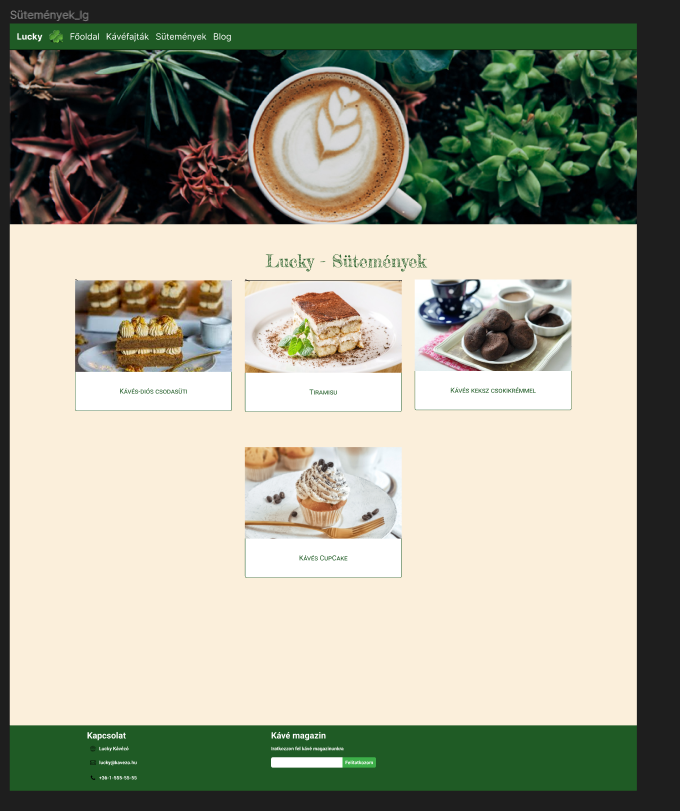
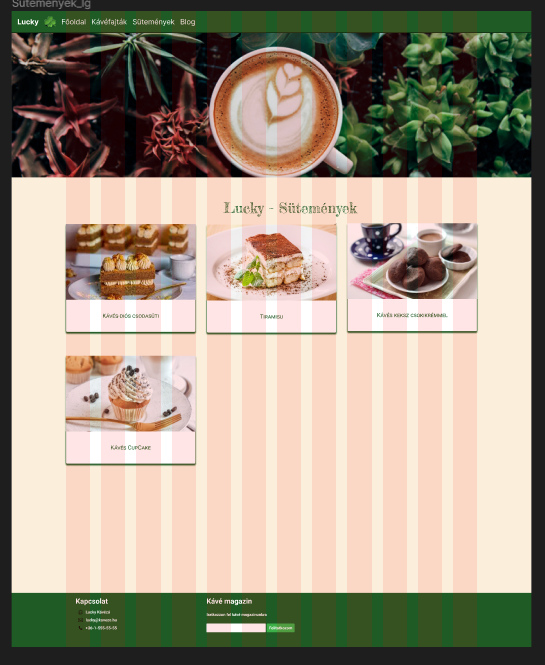
fad

diff --git a/lucky kávézó/html/sutik.html b/lucky kávézó/html/sutik.html
@@ -50,10 +50,28 @@
             </div>
         </div>
         <div class="row">
-            <div class="col-lg-4"><div class="kave"><img src="../Képek/sütik/KavesDiosCsodasuti.png" alt="Kávés-diós csodasüti" class="img-fluid"><h2>Kávés-diós csodasüti</h2></div></div>
-            <div class="col-lg-4"><div class="kave"><img src="../Képek/sütik/Tiramisu.jpg" alt="Tiramisu" class="img-fluid"><h2>Tiramisu</h2></div></div>
-            <div class="col-lg-4"><div class="kave"><img src="../Képek/sütik/KavesKekszCsokiKremmel.jpg" alt="Kávés keksz csokikrémmel" class="img-fluid"><h2>Kávés keksz csokikrémmel</h2></div></div>
-            <div class="col-lg-4"><div class="kave"><img src="../Képek/sütik/KavesCupCake.png" alt="Kávés cupcake" class="img-fluid"><h2>Kávés cupcake</h2></div></div>
+            <div class="col-lg-4 col-md-6">
+                <div class="kave">
+                    <img src="../Képek/sütik/KavesDiosCsodasuti.png" alt="Kávés-diós csodasüti" class="img-fluid">
+                    <h2>Kávés-diós csodasüti</h2>
+                </div>
+            </div>
+            <div class="col-lg-4 col-md-6">
+                <div class="kave">
+                    <img src="../Képek/sütik/Tiramisu.jpg" alt="Tiramisu" class="img-fluid">
+                    <h2>Tiramisu</h2></div></div>
+            <div class="col-lg-4 col-md-6">
+                <div class="kave">
+                    <img src="../Képek/sütik/KavesKekszCsokiKremmel.jpg" alt="Kávés keksz csokikrémmel" class="img-fluid">
+                    <h2>Kávés keksz csokikrémmel</h2>
+                </div>
+            </div>
+            <div class="col-lg-4 col-md-6">
+                <div class="kave">
+                    <img src="../Képek/sütik/KavesCupCake.png" alt="Kávés cupcake" class="img-fluid">
+                    <h2>Kávés cupcake</h2>
+                </div>
+            </div>
         </div>
 
     </div>

diff --git a/lucky kávézó/html/kavek.html b/lucky kávézó/html/kavek.html
@@ -70,7 +70,7 @@
 
     </div>
   
-  <!-- Modal -->
+
   <div class="modal fade" id="cappuccinoModal" tabindex="-1" aria-labelledby="exampleModalLabel" aria-hidden="true">
     <div class="modal-dialog modal-xl">
       <div class="modal-content">
